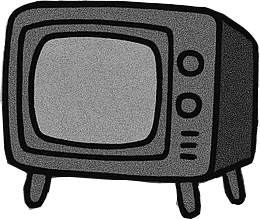
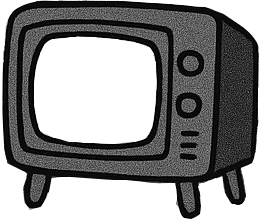
테레비 음악 추가

Changed region(s): [[0.1231, 0.1644, 0.6154, 0.6575], [0.0, 0.274, 0.0308, 0.5205]]

diff --git a/css/style.css b/css/style.css
@@ -28,10 +28,90 @@ html {
   bottom: -785px;
 }
 
+#tv-container img {
+  pointer-events: none;
+}
+
+#tv-container iframe {
+  position: absolute;
+  left: 20px;
+  top: 30px;
+  z-index: -4;
+}
+
+.crt-effect {
+  position: absolute;
+  width: 160px;
+  height: 120px;
+  left: 20px;
+  top: 30px;
+  pointer-events: none;
+  overflow: hidden;
+  z-index: -3;
+}
+
+.crt-effect::before {
+  content: "";
+  position: absolute;
+  top: 0;
+  left: 0;
+  width: 100%;
+  height: 100%;
+  background: linear-gradient(
+    to bottom,
+    rgba(18, 16, 16, 0) 30%,
+    rgba(0, 0, 0, 0.25) 30%
+  );
+  background-size: 100% 8px;
+  z-index: -2;
+
+  animation: scanline 8s infinite linear;
+}
+
+.crt-effect::after {
+  content: "";
+  position: absolute;
+  top: -50%;
+  left: -50%;
+  width: 200%;
+  height: 200%;
+  background: url('/img/noise.svg');
+  animation: noise 0.2s infinite linear;
+  z-index: -1;
+}
+
+@keyframes noise {
+  0% { transform: translate(0, 0); }
+  10% { transform: translate(-5%, -5%); }
+  20% { transform: translate(-10%, 5%); }
+  30% { transform: translate(5%, -10%); }
+  40% { transform: translate(-5%, 15%); }
+  50% { transform: translate(-10%, 5%); }
+  60% { transform: translate(15%, 0); }
+  70% { transform: translate(0, 10%); }
+  80% { transform: translate(-15%, 0); }
+  90% { transform: translate(10%, 5%); }
+  100% { transform: translate(5%, 0); }
+}
+
+@keyframes scanline {
+  from {
+    background-position: 0 0;
+  }
+  to {
+    background-position: 0 -100px;
+  }
+}
+
+.shake {
+  transition: transform 0.066s ease-in-out;
+}
+
 #flicker-container {
   position: absolute;
   width: 100%;
   height: 100%;
   background-color: black;
   opacity: 0;
+  pointer-events: none;
 }

diff --git a/index.html b/index.html
@@ -19,6 +19,10 @@
     <img src="img/desk_front.png" alt="desk-front"/>
   </div>
   <div class="shake" id="tv-container">
+    <iframe width="200" height="120"
+            src="https://www.youtube.com/embed/5py3nRJzWqk?loop=1&autoplay=1&mute=0&playlist=5py3nRJzWqk" allow="autoplay; encrypted-media;">
+    </iframe>
+    <div class="crt-effect"></div>
     <img src="img/tv.png" alt="tv"/>
   </div>
 </div>
